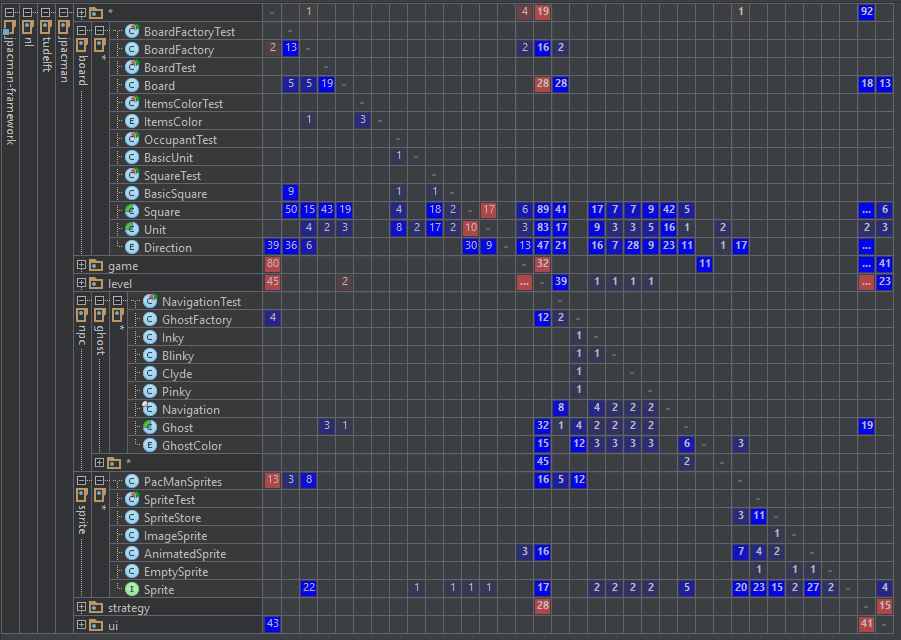
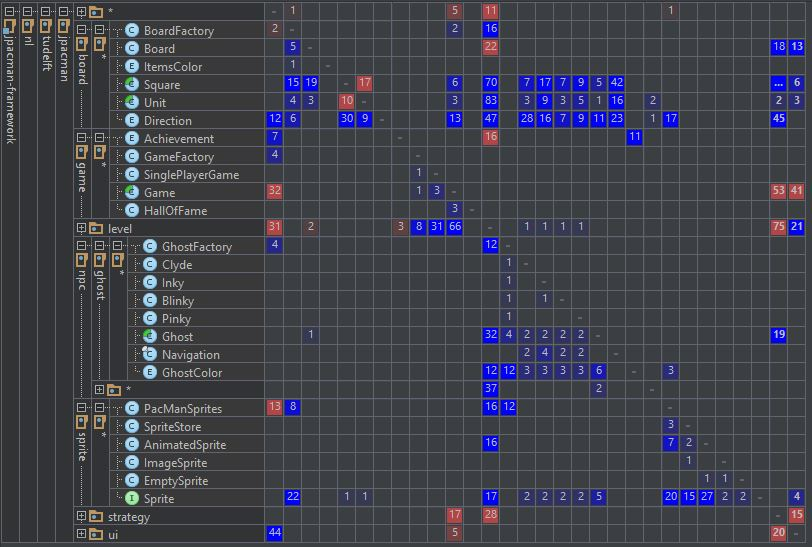
-Fixed an issue with identified players reaching a lower level than their previous "maxLevelReached" -Updated dependency matrix

diff --git a/src/main/java/nl/tudelft/jpacman/game/Game.java b/src/main/java/nl/tudelft/jpacman/game/Game.java
@@ -168,7 +168,22 @@ public abstract class Game implements LevelObserver {
     @Override
     public void levelWon() {
         stop();
-        Launcher.pacManUI.refreshLevelChoices(currentLevel);
+        final IdentifiedPlayer player = getPlayers().get(0);
+        int maxLevelReached = currentLevel;
+        //If identified
+        if (player.getProfilePath() != null) {
+            try {
+                //Check if next level is better than the previous "maxLevelReached"
+                maxLevelReached = Math.max(maxLevelReached, player.getMaxLevelReached());
+            } catch (IOException e) {
+                e.printStackTrace();
+            }
+        }
+        if (!isAvailable(maxLevelReached + 1)) {
+            //Make sure to avoid adding a button for a non-existing level
+            maxLevelReached--;
+        }
+        Launcher.pacManUI.refreshLevelChoices(maxLevelReached);
     }
 
     @Override
@@ -215,6 +230,22 @@ public abstract class Game implements LevelObserver {
             throw new PacmanConfigurationException("Unable to create level.", e);
         }
     }
+
+    /**
+     * Test whether the given level is available.
+     * @param id The id of the level
+     * @return true if available, false otherwise
+     */
+    private boolean isAvailable(final int id) {
+        final String file = "/board" + id + ".txt";
+        try (InputStream boardStream = Launcher.class
+                .getResourceAsStream(file)) {
+            return boardStream != null;
+        } catch (IOException e) {
+            throw new PacmanConfigurationException("Unable to create level.", e);
+        }
+    }
+
 
     /**
      * @return A new map parser object using the factories from
